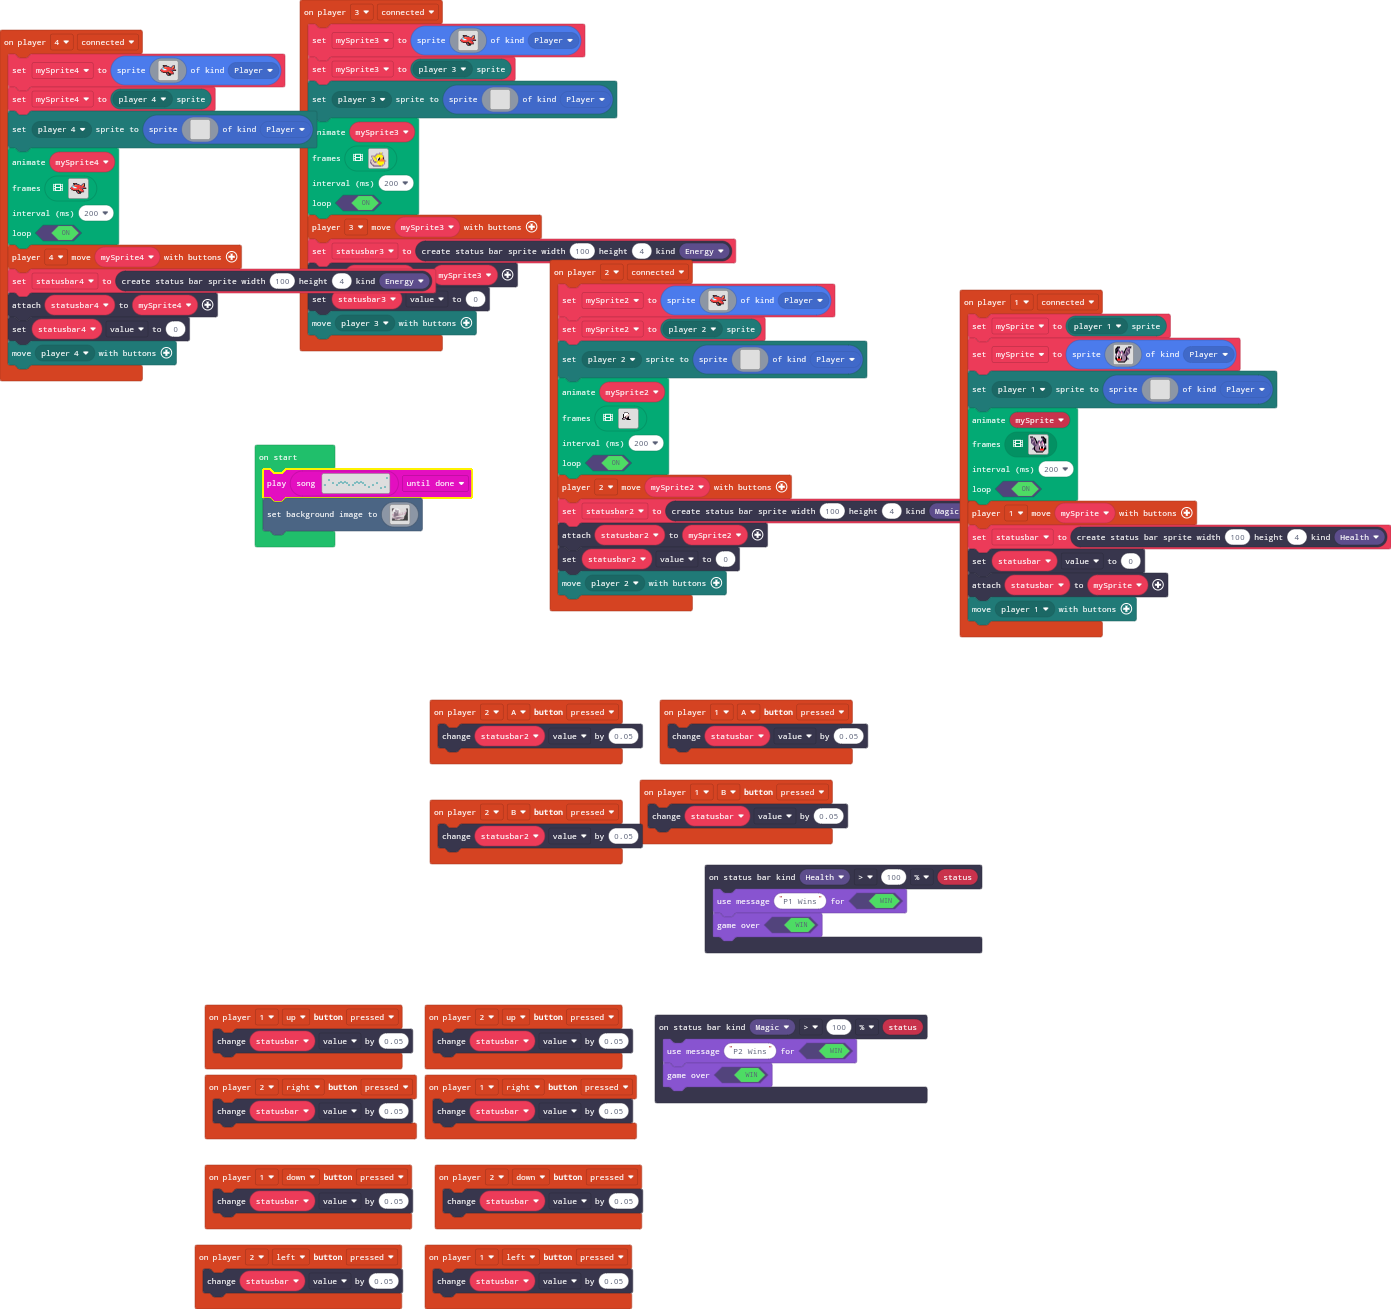
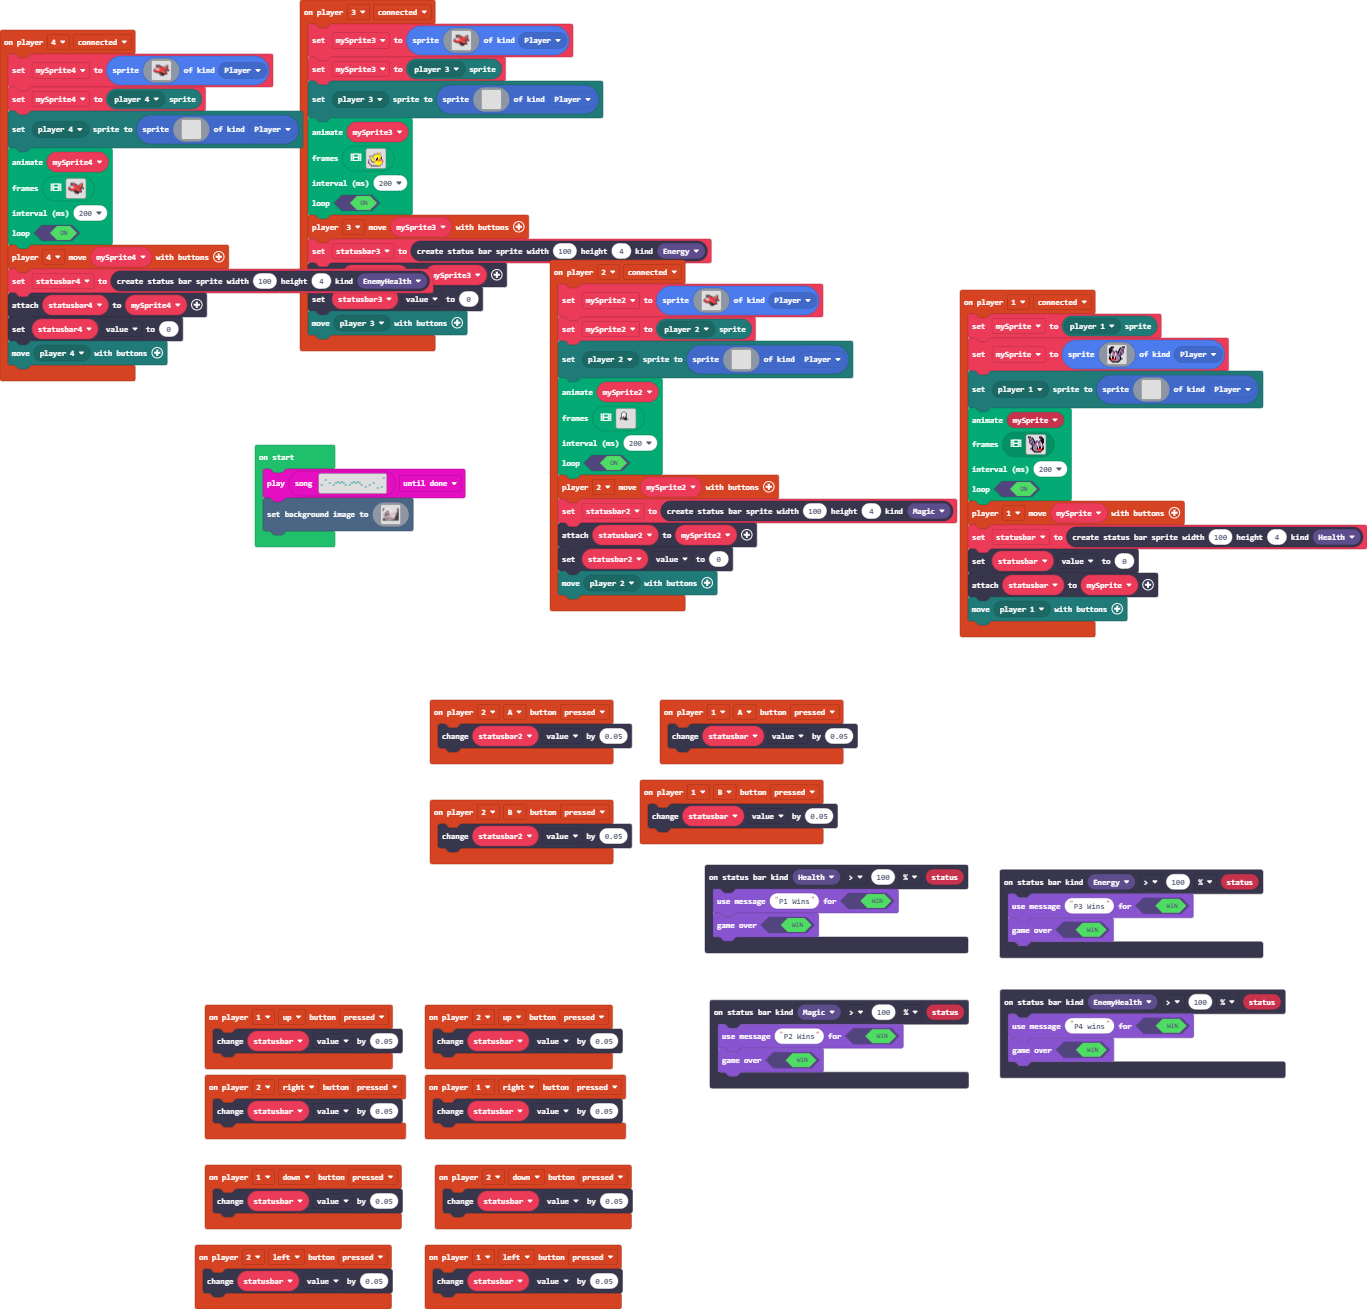
Update pxt.json, main.blocks, main.ts

diff --git a/main.ts b/main.ts
@@ -128,7 +128,7 @@ controller.player4.onEvent(ControllerEvent.Connected, function () {
     true
     )
     controller.player4.moveSprite(mySprite4)
-    statusbar4 = statusbars.create(100, 4, StatusBarKind.Energy)
+    statusbar4 = statusbars.create(100, 4, StatusBarKind.EnemyHealth)
     statusbar4.attachToSprite(mySprite4)
     statusbar4.value = 0
     mp.moveWithButtons(mp.playerSelector(mp.PlayerNumber.Four))
@@ -138,6 +138,10 @@ controller.player2.onButtonEvent(ControllerButton.B, ControllerButtonEvent.Press
 })
 controller.player1.onButtonEvent(ControllerButton.Up, ControllerButtonEvent.Pressed, function () {
     statusbar.value += 0.05
+})
+statusbars.onStatusReached(StatusBarKind.Energy, statusbars.StatusComparison.GT, statusbars.ComparisonType.Percentage, 100, function (status) {
+    game.setGameOverMessage(true, "P3 Wins")
+    game.gameOver(true)
 })
 controller.player2.onButtonEvent(ControllerButton.A, ControllerButtonEvent.Pressed, function () {
     statusbar2.value += 0.05
@@ -330,6 +334,10 @@ controller.player2.onEvent(ControllerEvent.Connected, function () {
 })
 controller.player1.onButtonEvent(ControllerButton.B, ControllerButtonEvent.Pressed, function () {
     statusbar.value += 0.05
+})
+statusbars.onStatusReached(StatusBarKind.EnemyHealth, statusbars.StatusComparison.GT, statusbars.ComparisonType.Percentage, 100, function (status) {
+    game.setGameOverMessage(true, "P4 wins")
+    game.gameOver(true)
 })
 controller.player1.onEvent(ControllerEvent.Connected, function () {
     mySprite = mp.getPlayerSprite(mp.playerSelector(mp.PlayerNumber.One))
